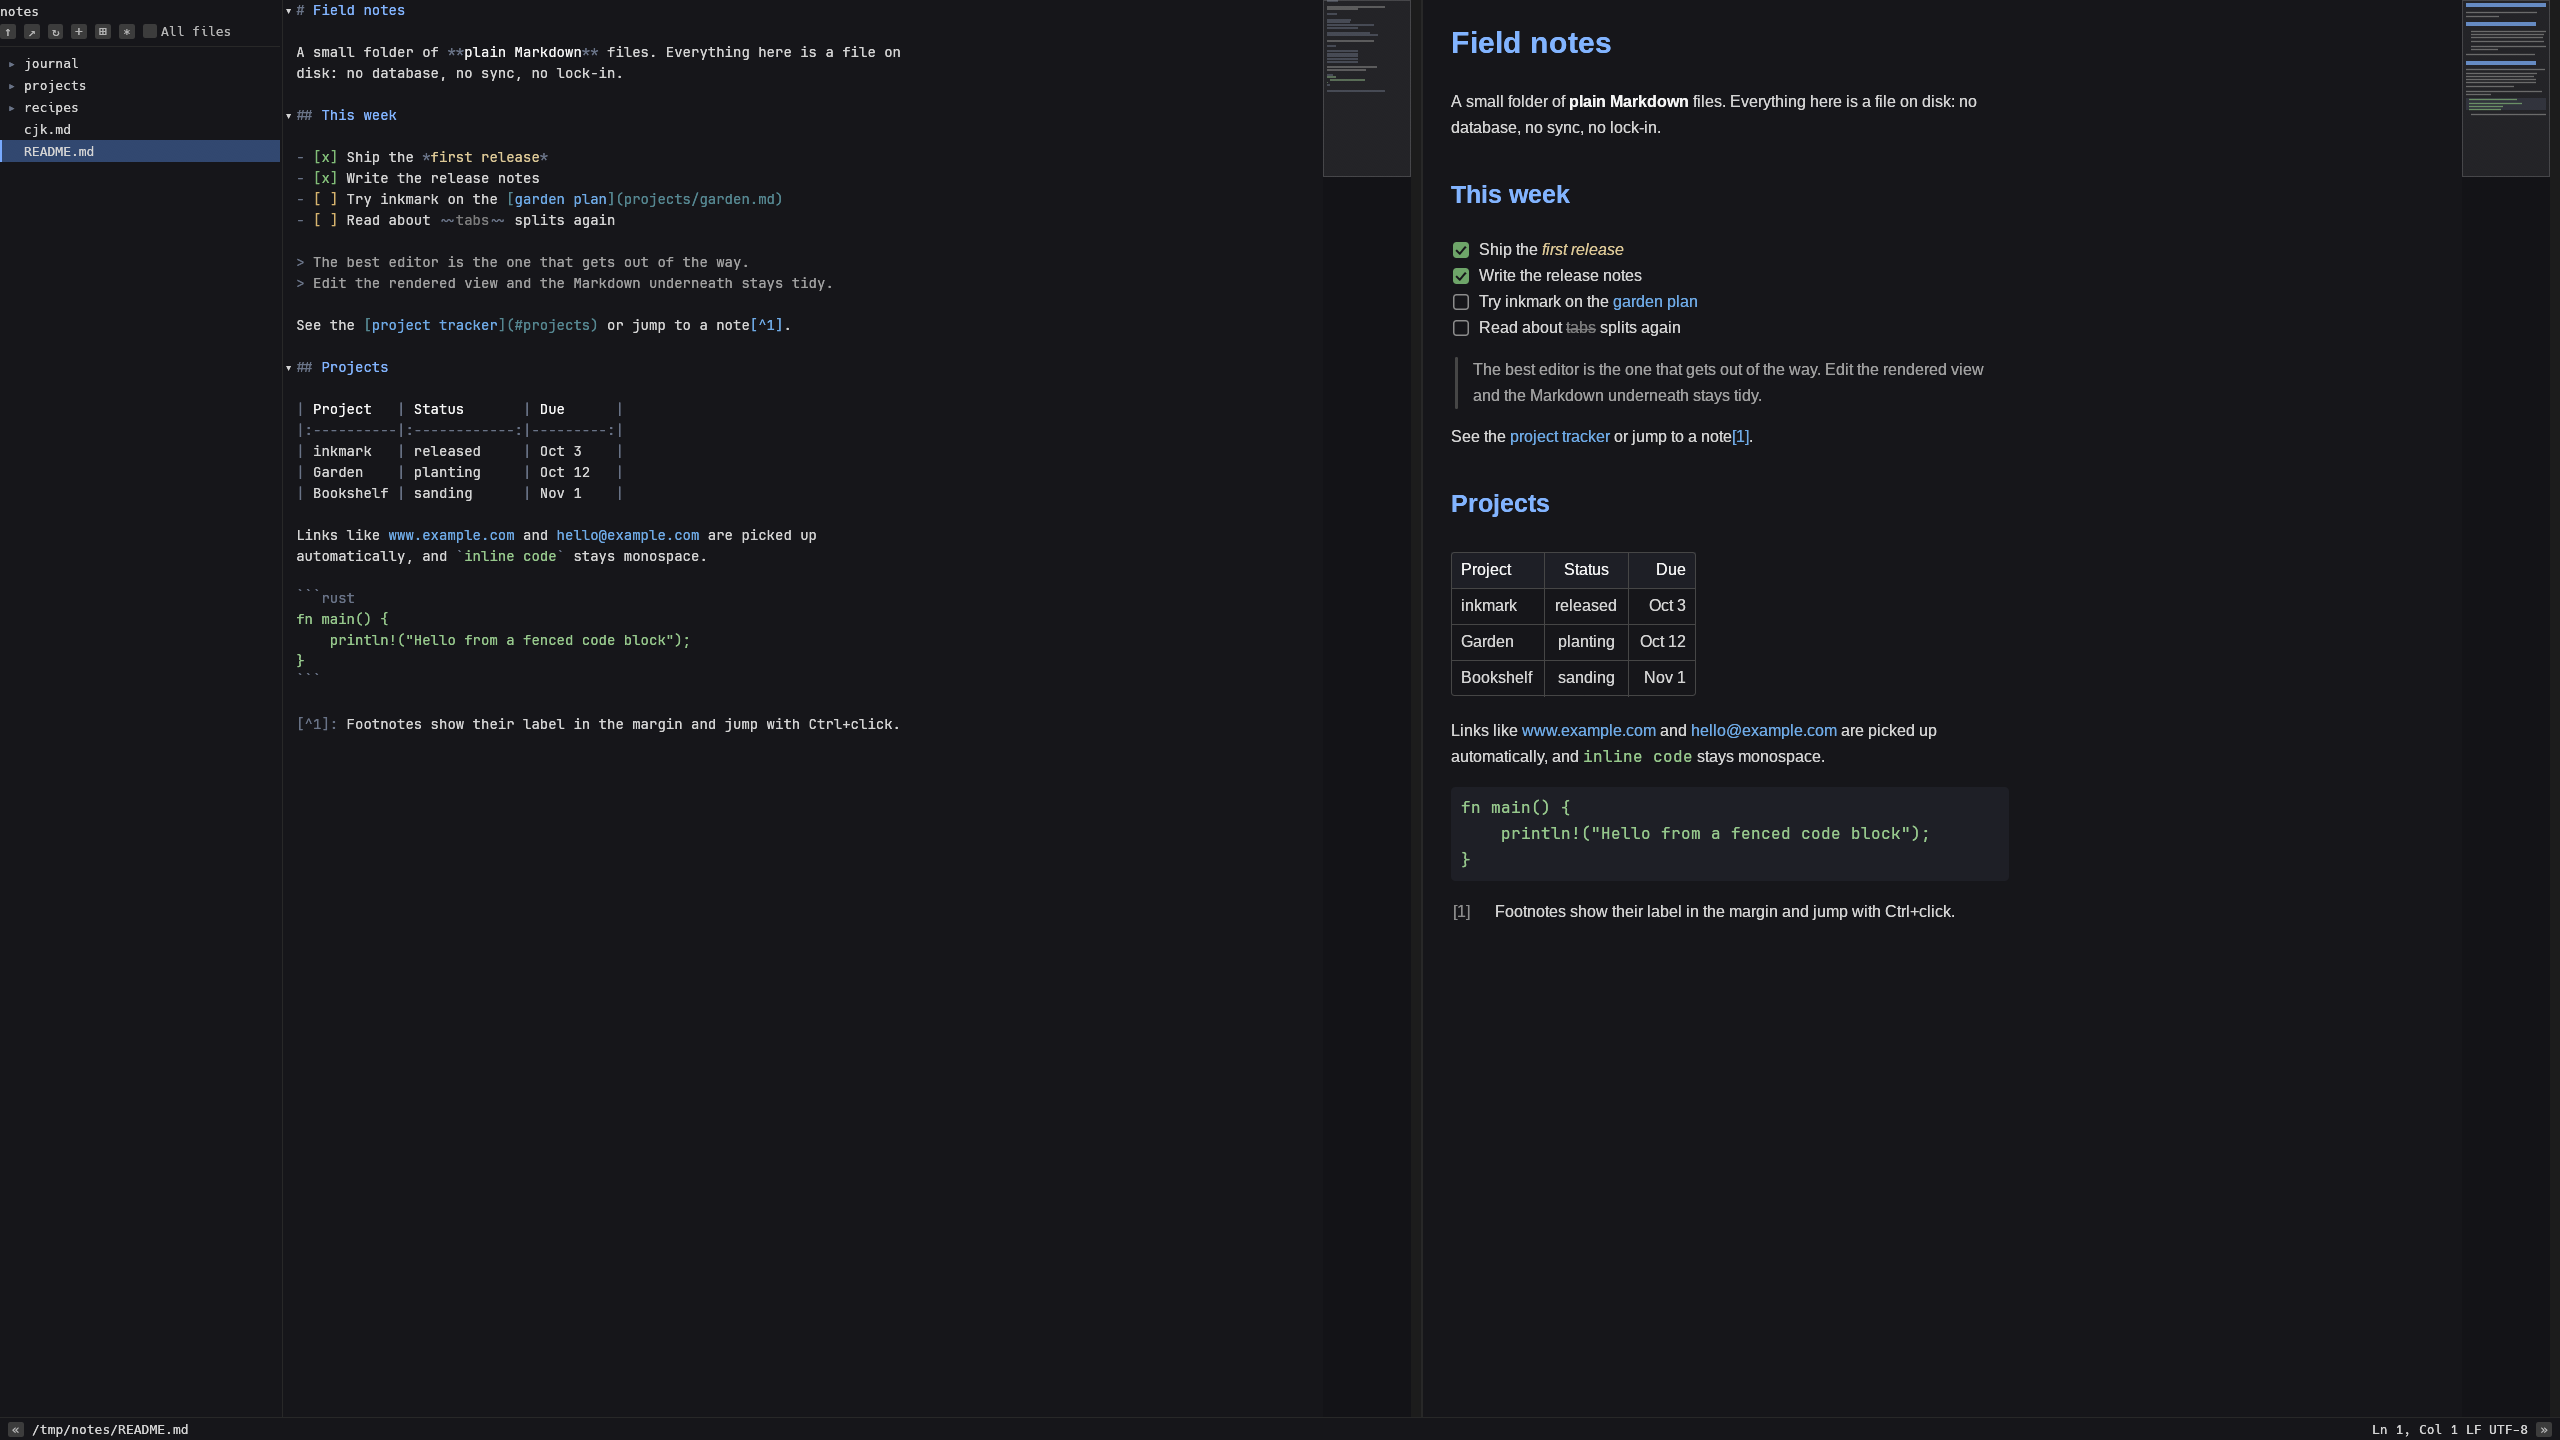
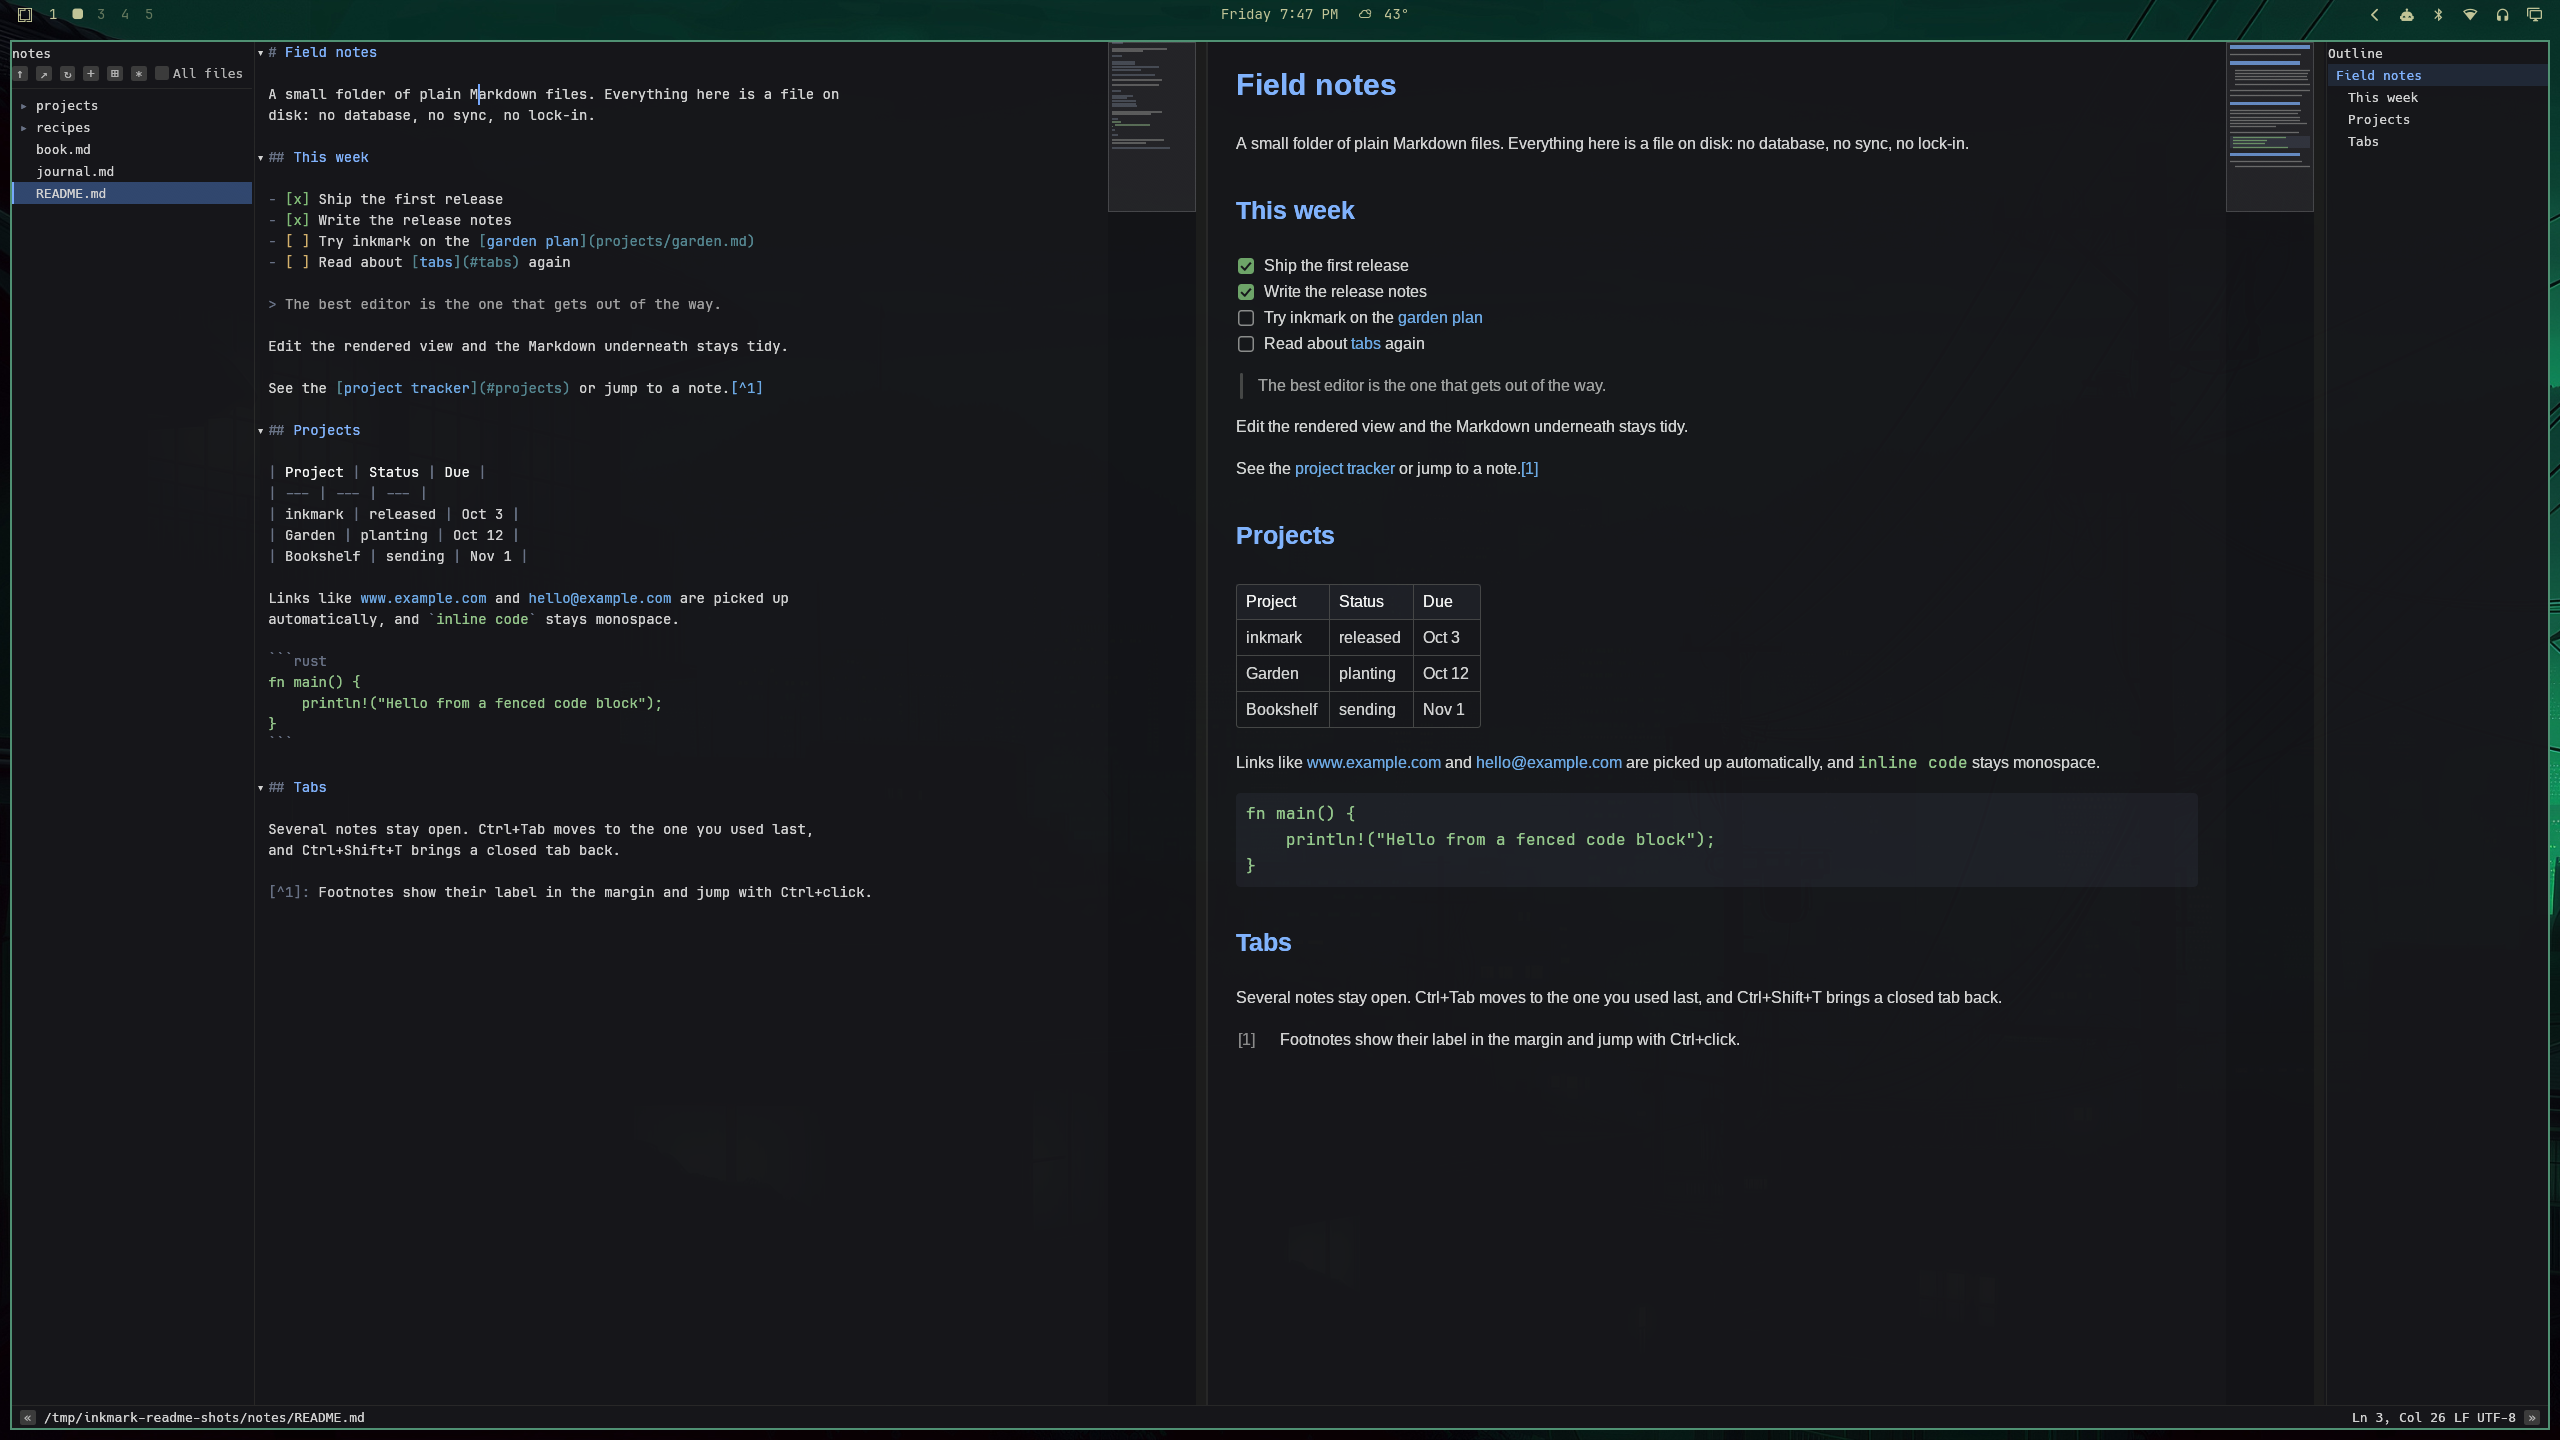
Refresh the README gallery for the current editor.
The old theme shots predate tabs and the syntax cheatsheet, and they use Omarchy themes that are no longer the ones installed here.

diff --git a/README.md b/README.md
@@ -5,7 +5,7 @@
 A fast, local Markdown editor for Linux and Wayland. Plain `.md` files on
 disk are the only source of truth: no accounts, sync or plugins.
 
-![inkmark in split view: the notes folder in the sidebar, Markdown on the left, the rendered document on the right, and the heading outline, in the Tokyo Night theme](docs/screenshots/split-tokyo-night.png)
+![inkmark in split view: the notes folder in the sidebar, Markdown on the left, the rendered document on the right, and the heading outline, in the Aetheria theme](docs/screenshots/split-aetheria.png)
 
 - **Three views of one document**: split (raw Markdown left, rendered
   right), code only, or live only. Both panes are editable; one undo history.
@@ -33,26 +33,35 @@ disk are the only source of truth: no accounts, sync or plugins.
 
 <table>
 <tr>
-<td><img src="docs/screenshots/live-flexoki-light.png" alt="Live view only, Flexoki Light theme"></td>
-<td><img src="docs/screenshots/code-catppuccin-latte.png" alt="Code view only, Catppuccin Latte theme"></td>
+<td><img src="docs/screenshots/live-forest-green.png" alt="Live view only, Forest Green theme"></td>
+<td><img src="docs/screenshots/code-blackgold.png" alt="Code view only, Blackgold theme"></td>
 </tr>
 <tr>
-<td align="center">Live view · Flexoki Light</td>
-<td align="center">Code view · Catppuccin Latte</td>
+<td align="center">Live view · Forest Green</td>
+<td align="center">Code view · Blackgold</td>
 </tr>
 <tr>
-<td><img src="docs/screenshots/long-document-rose-pine.png" alt="A 5 MB book in split view with the heading outline and both minimaps, Rosé Pine theme"></td>
+<td><img src="docs/screenshots/long-document-space-monkey.png" alt="A long book in split view with the heading outline and both minimaps, Space Monkey theme"></td>
+<td><img src="docs/screenshots/tabs-blackturq.png" alt="Three notes open in tabs, split view, Blackturq theme"></td>
+</tr>
+<tr>
+<td align="center">A long book with the outline and minimaps · Space Monkey</td>
+<td align="center">Tabs · Blackturq</td>
+</tr>
+<tr>
+<td><img src="docs/screenshots/cheatsheet-solarized-osaka.png" alt="The Markdown syntax cheatsheet over a split view, Solarizedosaka theme"></td>
 <td><img src="docs/screenshots/split-built-in-dark.png" alt="Split view in inkmark's built-in dark theme"></td>
 </tr>
 <tr>
-<td align="center">A 5 MB book with the outline and minimaps · Rosé Pine</td>
+<td align="center">Syntax cheatsheet · Solarizedosaka</td>
 <td align="center">Built-in dark theme</td>
 </tr>
 </table>
 
-Tokyo Night, Flexoki Light, Catppuccin Latte, and Rosé Pine are Omarchy
-themes; inkmark follows whichever one is active. With no Omarchy palette
-it uses its own dark or light theme, shown last.
+Aetheria, Forest Green, Blackgold, Space Monkey, Blackturq, and
+Solarizedosaka are Omarchy themes. inkmark follows whichever one is
+active. With no Omarchy palette it uses its own dark or light theme,
+shown last.
 
 See [PLAN.md](PLAN.md) for the design, measurements and roadmap.
 
